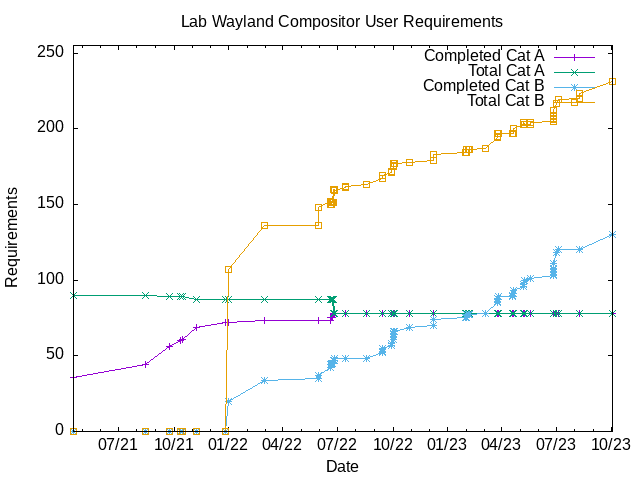
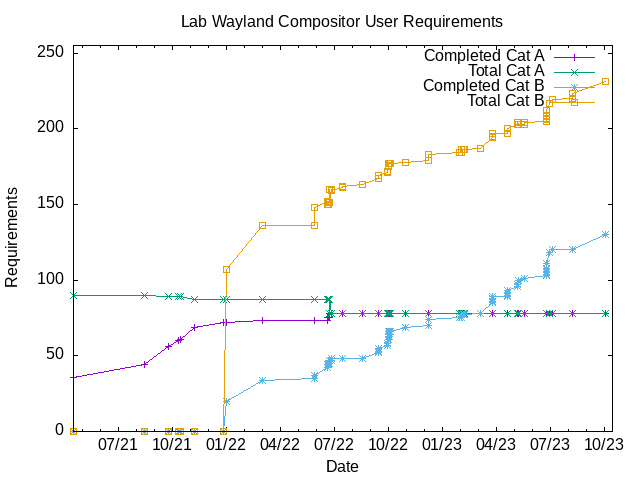
Add MoveToCursor action

diff --git a/extra.md b/extra.md
@@ -33,6 +33,7 @@ This file has been auto-generated based on README.md. Do not edit it manually
 |  B  | complete | 4.20      | global action                   | `ToggleKeybinds`                                        | EXTRA
 |  B  | complete | 5.36      | window action                   | `SnapToEdge`                                            | EXTRA
 |  B  | complete | 5.37      | window action                   | `SnapToRegion`                                          | EXTRA
+|  B  | complete | 5.38      | window action                   | `MoveToCursor`                                          | EXTRA
 |  B  | complete | 6.1.15    | geometry                        | `menu.width.min`                                        | EXTRA
 |  B  | complete | 6.1.16    | geometry                        | `menu.width.max`                                        | EXTRA
 |  B  | complete | 6.1.17    | geometry                        | `menu.items.padding.x`                                  | EXTRA

diff --git a/all-cat-A-and-B-items.md b/all-cat-A-and-B-items.md
@@ -231,6 +231,7 @@ This file has been auto-generated based on README.md. Do not edit it manually
 |  B  | complete | 5.34      | window action                   | `ToggleAlwaysOnBottom`                                  |
 |  B  | complete | 5.36      | window action                   | `SnapToEdge`                                            | EXTRA
 |  B  | complete | 5.37      | window action                   | `SnapToRegion`                                          | EXTRA
+|  B  | complete | 5.38      | window action                   | `MoveToCursor`                                          | EXTRA
 |  B  |          | 6.1.2     | geometry                        | `menu.border.width`                                     |
 |  B  | complete | 6.1.4     | geometry                        | `menu.separator.padding.width`                          |
 |  B  | complete | 6.1.5     | geometry                        | `menu.separator.padding.height`                         |

diff --git a/README.md b/README.md
@@ -550,6 +550,7 @@ The `<core>` section is additional to openbox 3.6 spec.
 |  C  |          | 5.35      | window action                   | `SendToLayer`                                           |
 |  B  | complete | 5.36      | window action                   | `SnapToEdge`                                            | EXTRA
 |  B  | complete | 5.37      | window action                   | `SnapToRegion`                                          | EXTRA
+|  B  | complete | 5.38      | window action                   | `MoveToCursor`                                          | EXTRA
 
 ## 6.1 Theme - Geometry
 

diff --git a/stats.md b/stats.md
@@ -3,6 +3,6 @@ This file has been auto-generated based on README.md. Do not edit it manually
 # Requirements Breakdown
 
 - Cat A:  78 / 78 complete
-- Cat B:  130 / 231 complete
+- Cat B:  131 / 232 complete
 - Cat C:  0 / 45 complete
-- TOTAL:  208 / 354 complete
+- TOTAL:  209 / 355 complete
